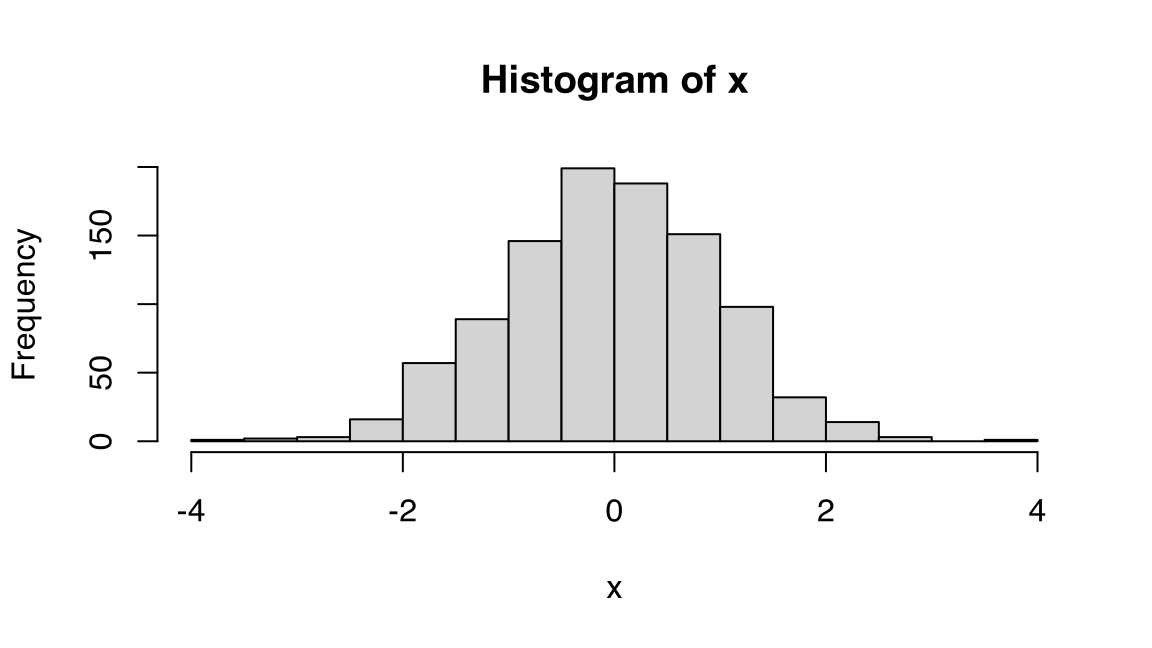
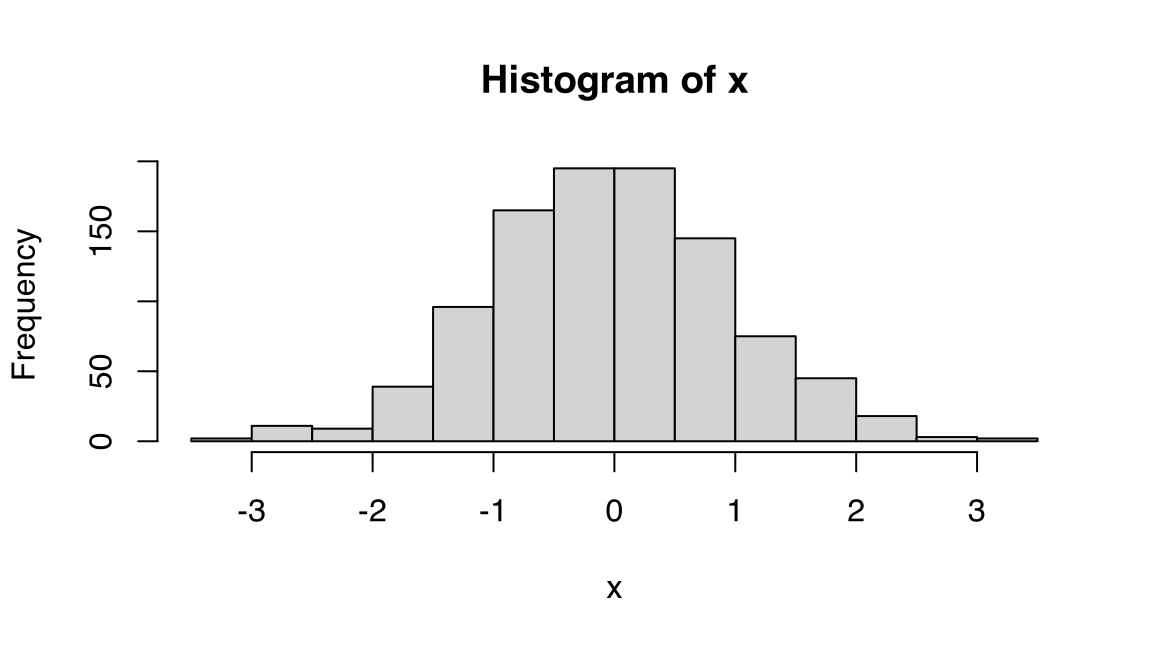
chore: set a seed
Otherwise plots change every time I knit the document.

diff --git a/notes/week-01/01-doing-data-science/01-doing-data-science.md b/notes/week-01/01-doing-data-science/01-doing-data-science.md
@@ -153,7 +153,7 @@ x <- rnorm(n = 1000)
 hist(x)
 ```
 
-<img src="https://i.imgur.com/LjVOQF6.png" width="100%" style="display: block; margin: auto;" />
+<img src="https://i.imgur.com/04W4ip3.png" width="100%" style="display: block; margin: auto;" />
 
 The first line calls the function `rnorm()` to generate a numeric vector
 of 1000 random normal variables. The second line plots a **histogram**
@@ -163,7 +163,7 @@ of these numbers. You can even combine the two lines into a single line!
 hist(rnorm(n = 1000))
 ```
 
-<img src="https://i.imgur.com/G9sziU1.png" width="100%" style="display: block; margin: auto;" />
+<img src="https://i.imgur.com/cw1vu25.png" width="100%" style="display: block; margin: auto;" />
 
 ### Embrace the Pipe
 
@@ -198,7 +198,7 @@ first_letters_counts <- table(first_letters)
 barplot(first_letters_counts)
 ```
 
-<img src="https://i.imgur.com/eDZI0cI.png" width="100%" style="display: block; margin: auto;" />
+<img src="https://i.imgur.com/vrKZ98D.png" width="100%" style="display: block; margin: auto;" />
 
 Running this code will create a nice bar plot. Note how we just had to
 know the right functions to use to get the job done! The multiple lines
@@ -213,7 +213,7 @@ Alternatively, we could have also written this code as a one-liner!
 barplot(table(substr(state.name, 1, 1)))
 ```
 
-<img src="https://i.imgur.com/siTChm9.png" width="100%" style="display: block; margin: auto;" />
+<img src="https://i.imgur.com/51oeKCE.png" width="100%" style="display: block; margin: auto;" />
 
 It skips the step of having to create intermediate variables and naming
 them appropriately. However, if you were to read the code carefully, you
@@ -239,7 +239,7 @@ state.name |> # Take baby_names, then
   barplot() # Create a bar plot.
 ```
 
-<img src="https://i.imgur.com/q55uXm1.png" width="100%" style="display: block; margin: auto;" />
+<img src="https://i.imgur.com/XuGfxML.png" width="100%" style="display: block; margin: auto;" />
 
 Notice how the steps are now ordered exactly the same way we wrote our
 recipe, and there is no clutter of intermediate objects. In fact, if the
